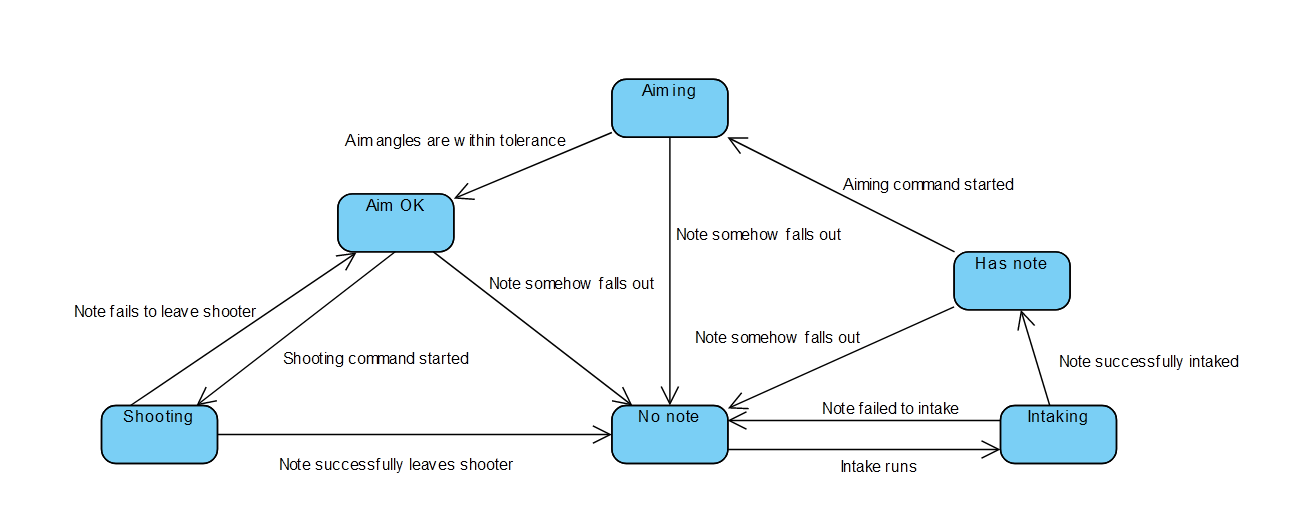
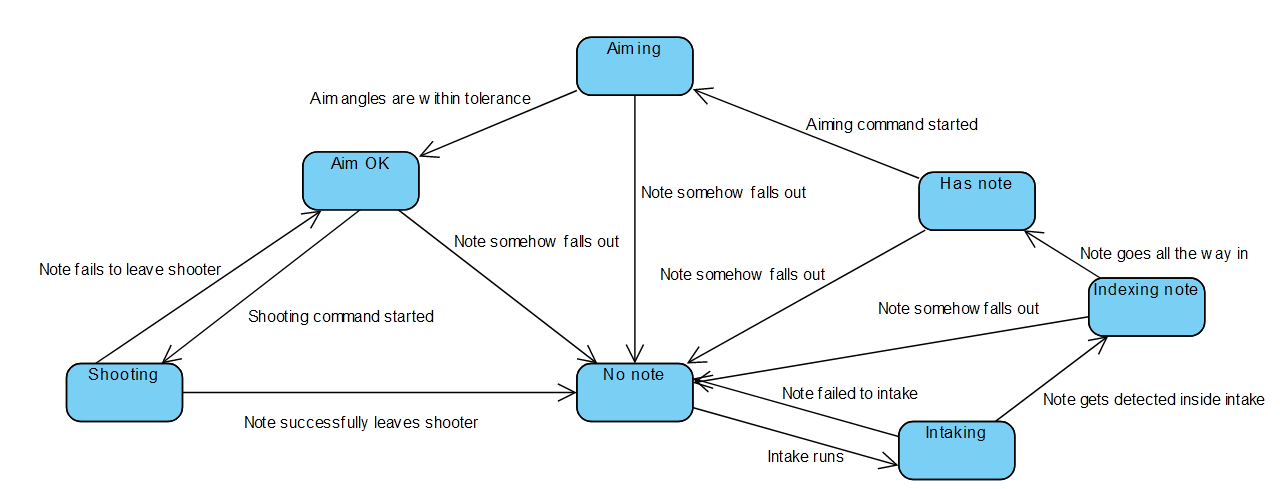
Add code for a second note detector
- Tada

diff --git a/src/main/java/frc/robot/subsystems/misc/LightSubsystem.java b/src/main/java/frc/robot/subsystems/misc/LightSubsystem.java
@@ -39,6 +39,7 @@ public class LightSubsystem extends SubsystemBase {
   public enum LightState {
     NO_NOTE,
     INTAKING,
+    INDEXING_NOTE,
     HAS_NOTE,
     AIMING,
     AIM_OK,
@@ -48,7 +49,8 @@ public class LightSubsystem extends SubsystemBase {
   private LightState currentState = LightState.NO_NOTE;
 
   public Command setState(
-      BooleanSupplier hasNote,
+      BooleanSupplier hasNoteInIntake,
+      BooleanSupplier hasNoteInShooter,
       BooleanSupplier isIntaking,
       BooleanSupplier isAiming,
       BooleanSupplier isAimOK,
@@ -64,19 +66,25 @@ public class LightSubsystem extends SubsystemBase {
               }
             }
             case INTAKING -> {
-              if (!isIntaking.getAsBoolean()) {
-                // If the intake gets stopped
-                if (hasNote.getAsBoolean()) {
-                  // And we did successfully intake, switch to "has note" state
-                  currentState = LightState.HAS_NOTE;
-                } else {
-                  // Otherwise, go back to the "no note" state.
-                  currentState = LightState.NO_NOTE;
-                }
+              if (hasNoteInIntake.getAsBoolean()) {
+                // If we detect a note in the intake, switch to the "indexing note" state.
+                currentState = LightState.INDEXING_NOTE;
+              } else if (!isIntaking.getAsBoolean()) {
+                // If we fail to intake the note, go back to the "no note" state.
+                currentState = LightState.NO_NOTE;
+              }
+            }
+            case INDEXING_NOTE -> {
+              if (hasNoteInShooter.getAsBoolean()) {
+                // If we detect the note in the shooter, switch to the "has note" state.
+                currentState = LightState.HAS_NOTE;
+              } else if (!hasNoteInIntake.getAsBoolean()) {
+                // If we somehow don't have a note anymore, go back to the "no note" state.
+                currentState = LightState.NO_NOTE;
               }
             }
             case HAS_NOTE -> {
-              if (!hasNote.getAsBoolean()) {
+              if (!hasNoteInShooter.getAsBoolean()) {
                 // If we somehow don't have a note anymore, go back to the "no note" state.
                 currentState = LightState.NO_NOTE;
               } else if (isAiming.getAsBoolean()) {
@@ -85,7 +93,7 @@ public class LightSubsystem extends SubsystemBase {
               }
             }
             case AIMING -> {
-              if (!hasNote.getAsBoolean()) {
+              if (!hasNoteInShooter.getAsBoolean()) {
                 // If we somehow don't have a note anymore, go back to the "no note" state.
                 currentState = LightState.NO_NOTE;
               } else if (isAimOK.getAsBoolean()) {
@@ -97,7 +105,7 @@ public class LightSubsystem extends SubsystemBase {
               }
             }
             case AIM_OK -> {
-              if (!hasNote.getAsBoolean()) {
+              if (!hasNoteInShooter.getAsBoolean()) {
                 // If we somehow don't have a note anymore, go back to the "no note" state.
                 currentState = LightState.NO_NOTE;
               } else if (!isAiming.getAsBoolean()) {
@@ -117,7 +125,7 @@ public class LightSubsystem extends SubsystemBase {
                 currentState = LightState.AIMING;
               } else if (!isShooting.getAsBoolean()) {
                 // If we stop shooting
-                if (!hasNote.getAsBoolean()) {
+                if (!hasNoteInShooter.getAsBoolean()) {
                   // And the note successfully leaves the shooter, switch to the "no note" state.
                   currentState = LightState.NO_NOTE;
                 } else {

diff --git a/src/main/java/frc/robot/subsystems/shooter/interfaceLayers/NoteDetectorIOTimeOfFlight.java b/src/main/java/frc/robot/subsystems/shooter/interfaceLayers/NoteDetectorIOTimeOfFlight.java
@@ -23,22 +23,34 @@ import edu.wpi.first.math.filter.LinearFilter;
 import frc.robot.util.CANConstants.Shooter;
 
 public class NoteDetectorIOTimeOfFlight implements NoteDetectorIO {
-  private final TimeOfFlight sensor;
+  private final TimeOfFlight shooterSensor;
+  private final TimeOfFlight intakeSensor;
 
   public NoteDetectorIOTimeOfFlight() {
-    sensor = new TimeOfFlight(Shooter.NOTE_DETECTOR);
-    sensor.setRangingMode(RangingMode.Short, 24);
+    shooterSensor = new TimeOfFlight(Shooter.SHOOTER_NOTE_DETECTOR);
+    shooterSensor.setRangingMode(RangingMode.Short, 24);
+    intakeSensor = new TimeOfFlight(Shooter.INTAKE_NOTE_DETECTOR);
+    intakeSensor.setRangingMode(RangingMode.Short, 24);
   }
 
-  LinearFilter rangeFilter = LinearFilter.movingAverage(5);
+  LinearFilter shooterRangeFilter = LinearFilter.movingAverage(5);
+  LinearFilter intakeRangeFilter = LinearFilter.movingAverage(5);
 
   @Override
   public void updateInputs(NoteDetectorIOInputs inputs) {
-    if (sensor.isRangeValid()) {
-      inputs.detectedDistance = Millimeters.of(rangeFilter.calculate(sensor.getRange()));
-      inputs.hasNote = inputs.detectedDistance.lte(Inches.of(15.5)); // TODO: Tune
+    if (shooterSensor.isRangeValid()) {
+      inputs.shooterDetectedDistance =
+          Millimeters.of(shooterRangeFilter.calculate(shooterSensor.getRange()));
+      inputs.hasNoteInShooter = inputs.shooterDetectedDistance.lte(Inches.of(15.5));
     } else {
-      inputs.hasNote = false;
+      inputs.hasNoteInShooter = false;
+    }
+    if (intakeSensor.isRangeValid()) {
+      inputs.intakeDetectedDistance =
+          Millimeters.of(intakeRangeFilter.calculate(intakeSensor.getRange()));
+      inputs.hasNoteInIntake = inputs.intakeDetectedDistance.lte(Inches.of(15.5));
+    } else {
+      inputs.hasNoteInIntake = false;
     }
   }
 }

diff --git a/src/main/java/frc/robot/subsystems/shooter/Shooter.java b/src/main/java/frc/robot/subsystems/shooter/Shooter.java
@@ -68,7 +68,8 @@ public class Shooter {
 
     light.setDefaultCommand(
         light.setState(
-            noteDetector::hasNote, // Does the bot have a note?
+            noteDetector::hasNoteInIntake, // Is the bot currently intaking a note?
+            noteDetector::hasNoteInShooter, // Does the bot have a note in the shooter?
             intake::isRunning, // Is the bot intaking?
             () -> // Is the pivot aiming?
             pivot.getCurrentCommand() != null
@@ -97,7 +98,7 @@ public class Shooter {
             intake.getIntakeCommand(),
             feeder.getFeedCommand(),
             pivot.getPivotCommand(() -> Rotation2d.fromDegrees(45)))
-        .until(noteDetector::hasNote);
+        .until(noteDetector::hasNoteInShooter);
   }
 
   public Command getManualControlCommand(DoubleSupplier pivotSupplier) {
@@ -147,7 +148,7 @@ public class Shooter {
                 () -> {
                   return Rotation2d.fromDegrees(45);
                 }))
-        .until(noteDetector::hasNote);
+        .until(noteDetector::hasNoteInShooter);
   }
 
   private double speakerY = 5.5;

diff --git a/src/main/java/frc/robot/subsystems/shooter/interfaceLayers/NoteDetectorIO.java b/src/main/java/frc/robot/subsystems/shooter/interfaceLayers/NoteDetectorIO.java
@@ -22,10 +22,14 @@ import org.littletonrobotics.junction.AutoLog;
 public interface NoteDetectorIO {
   @AutoLog
   public class NoteDetectorIOInputs {
-    /** If the detector sees a note or not. */
-    public boolean hasNote = false;
-    /** The distance from an object that the detector has measured. */
-    public Measure<Distance> detectedDistance = Inches.of(-1);
+    /** If the detector at the shooter sees a note or not. */
+    public boolean hasNoteInShooter = false;
+    /** The distance from an object that the shooter detector has measured. */
+    public Measure<Distance> shooterDetectedDistance = Inches.of(-1);
+    /** If the detector at the shooter sees a note or not. */
+    public boolean hasNoteInIntake = false;
+    /** The distance from an object that the shooter detector has measured. */
+    public Measure<Distance> intakeDetectedDistance = Inches.of(-1);
   }
 
   /** Updates the set of loggable inputs. */

diff --git a/src/main/java/frc/robot/subsystems/misc/interfaceLayers/LightsIOBlinkin.java b/src/main/java/frc/robot/subsystems/misc/interfaceLayers/LightsIOBlinkin.java
@@ -91,6 +91,7 @@ public class LightsIOBlinkin implements LightsIO {
     switch (state) {
       case NO_NOTE -> colorBlinkin.setPulseTimeMicroseconds(Colors.GREEN.colorValue);
       case INTAKING -> colorBlinkin.setPulseTimeMicroseconds(Colors.BLUE.colorValue);
+      case INDEXING_NOTE -> colorBlinkin.setPulseTimeMicroseconds(Colors.HOT_PINK.colorValue);
       case HAS_NOTE -> colorBlinkin.setPulseTimeMicroseconds(Colors.GOLD.colorValue);
       case AIMING -> colorBlinkin.setPulseTimeMicroseconds(Colors.WHITE.colorValue);
       case AIM_OK -> colorBlinkin.setPulseTimeMicroseconds(Colors.FIRE_LARGE.colorValue);

diff --git a/src/main/java/frc/robot/util/CANConstants.java b/src/main/java/frc/robot/util/CANConstants.java
@@ -40,7 +40,8 @@ public final class CANConstants {
     public static final int PIVOT_FOLLOWER = 19;
     public static final int TOP_FLYWHEEL = 22;
     public static final int BOTTOM_FLYWHEEL = 21;
-    public static final int NOTE_DETECTOR = 32;
+    public static final int SHOOTER_NOTE_DETECTOR = 32;
+    public static final int INTAKE_NOTE_DETECTOR = 33;
     public static final int CLIMBER_LEFT = 25;
     public static final int CLIMBER_RIGHT = 24;
   }

diff --git a/src/main/java/frc/robot/subsystems/shooter/NoteDetectorSubsystem.java b/src/main/java/frc/robot/subsystems/shooter/NoteDetectorSubsystem.java
@@ -33,8 +33,12 @@ public class NoteDetectorSubsystem extends SubsystemBase {
     Logger.processInputs("Shooter/noteDetector", inputs);
   }
 
-  public boolean hasNote() {
-    return inputs.hasNote;
+  public boolean hasNoteInShooter() {
+    return inputs.hasNoteInShooter;
     // Hey a random Michael has appeared
+  }
+
+  public boolean hasNoteInIntake() {
+    return inputs.hasNoteInIntake;
   }
 }
